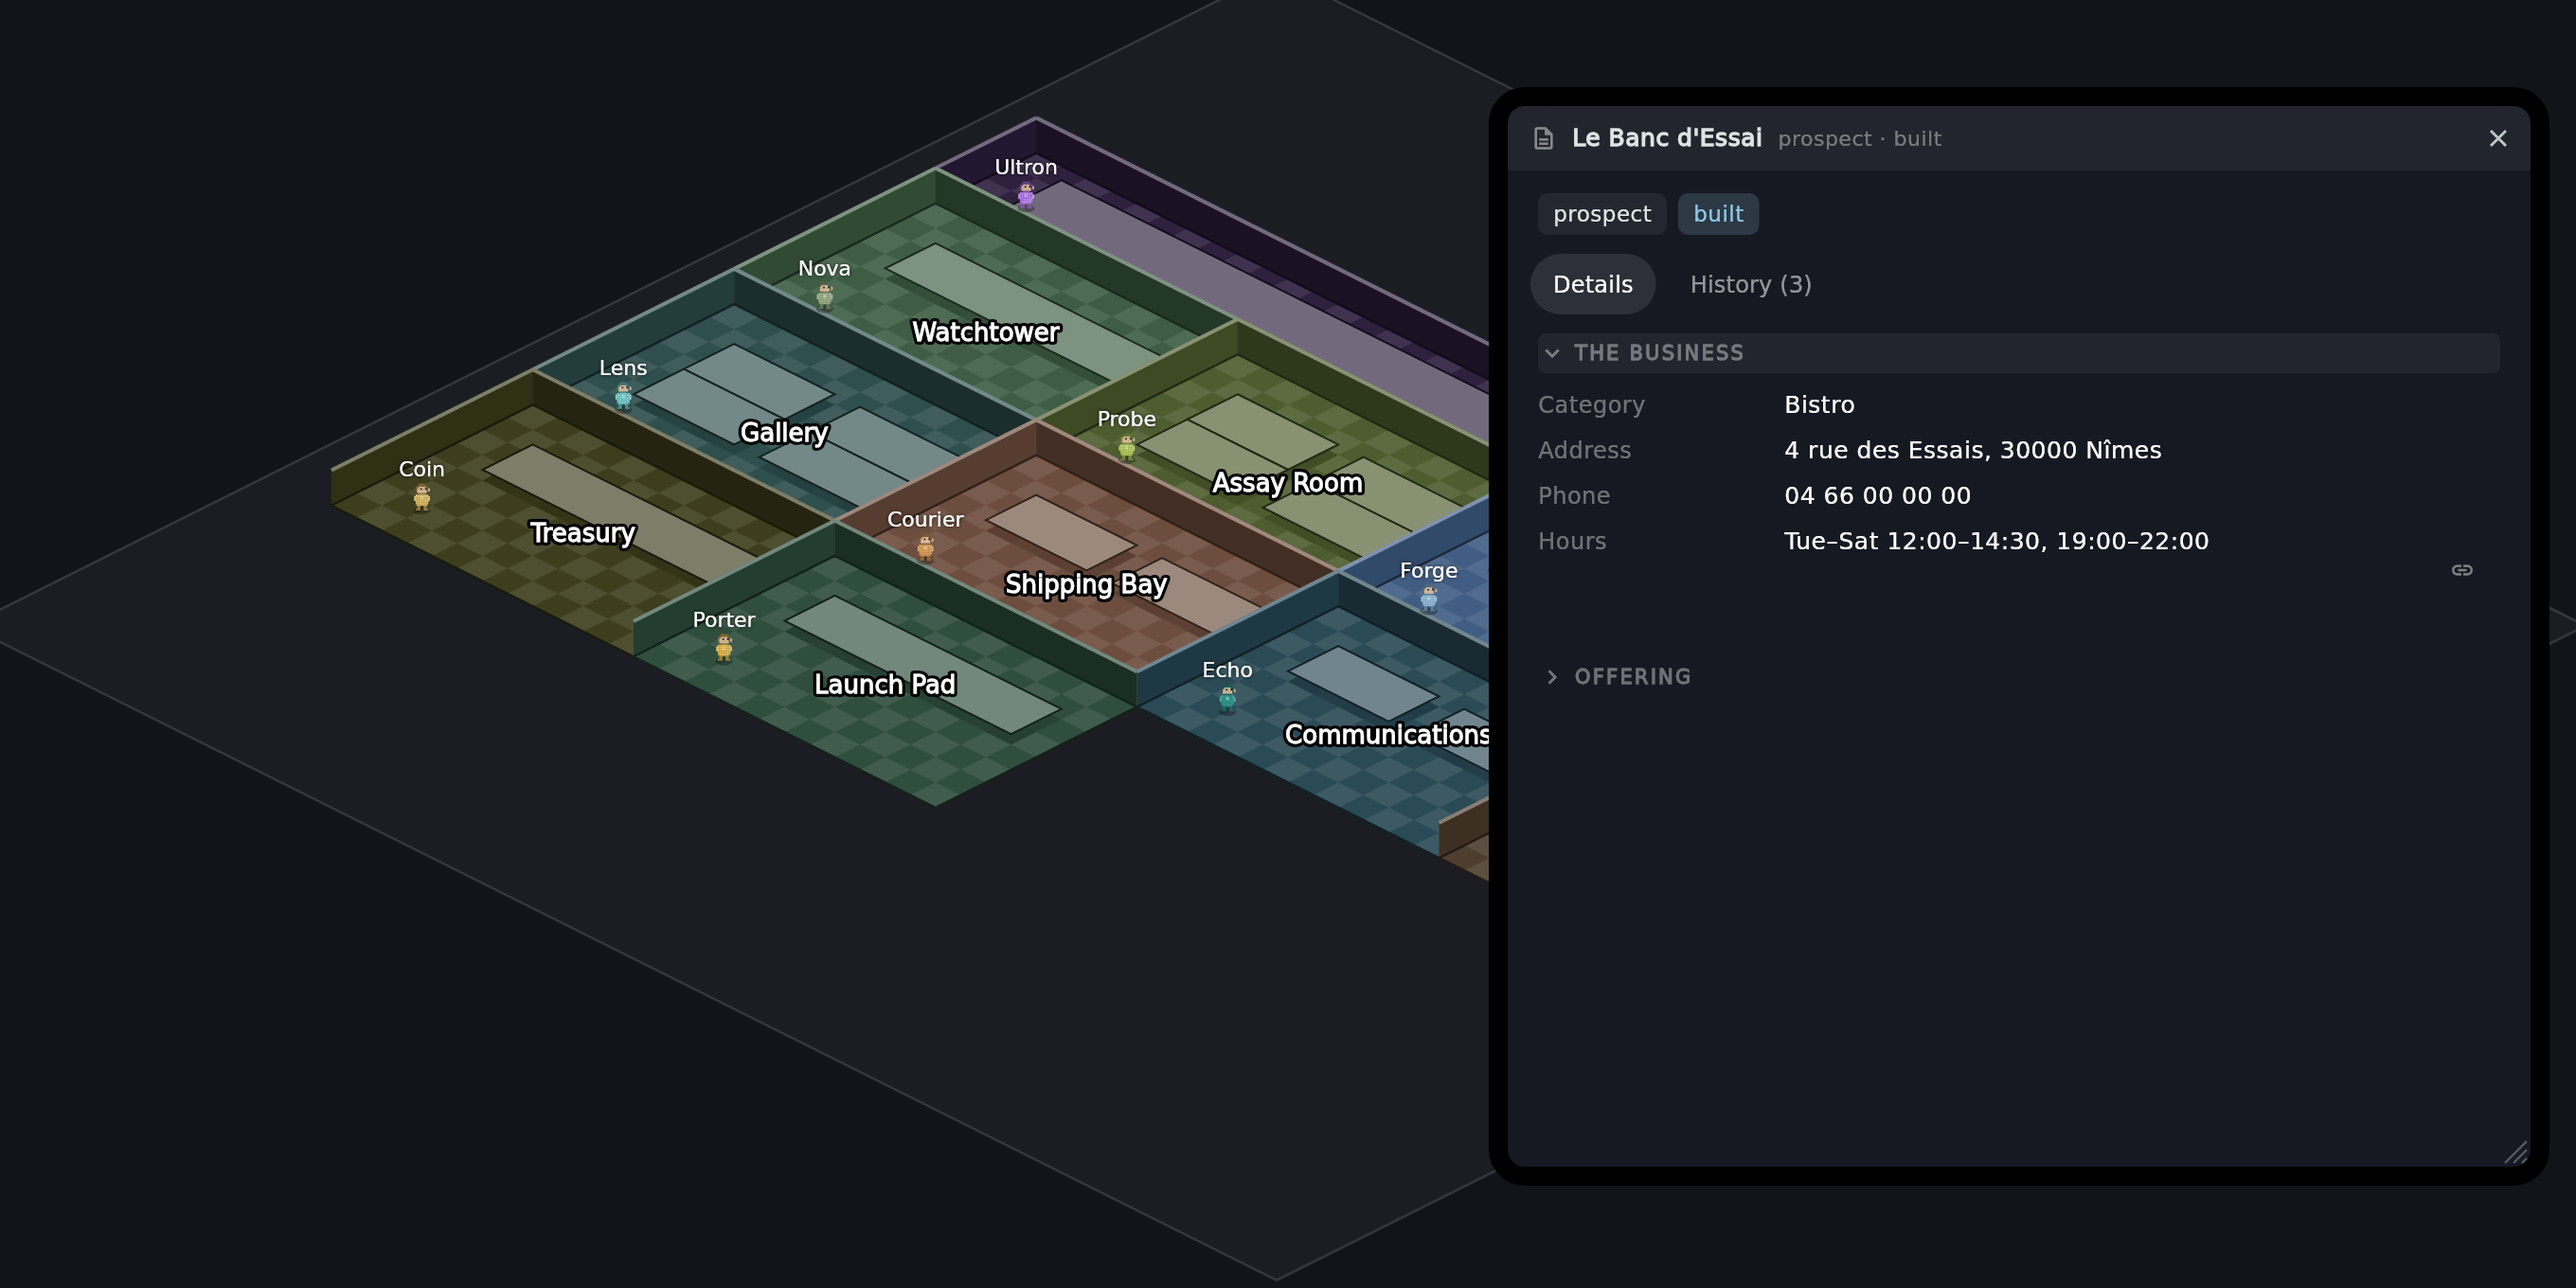
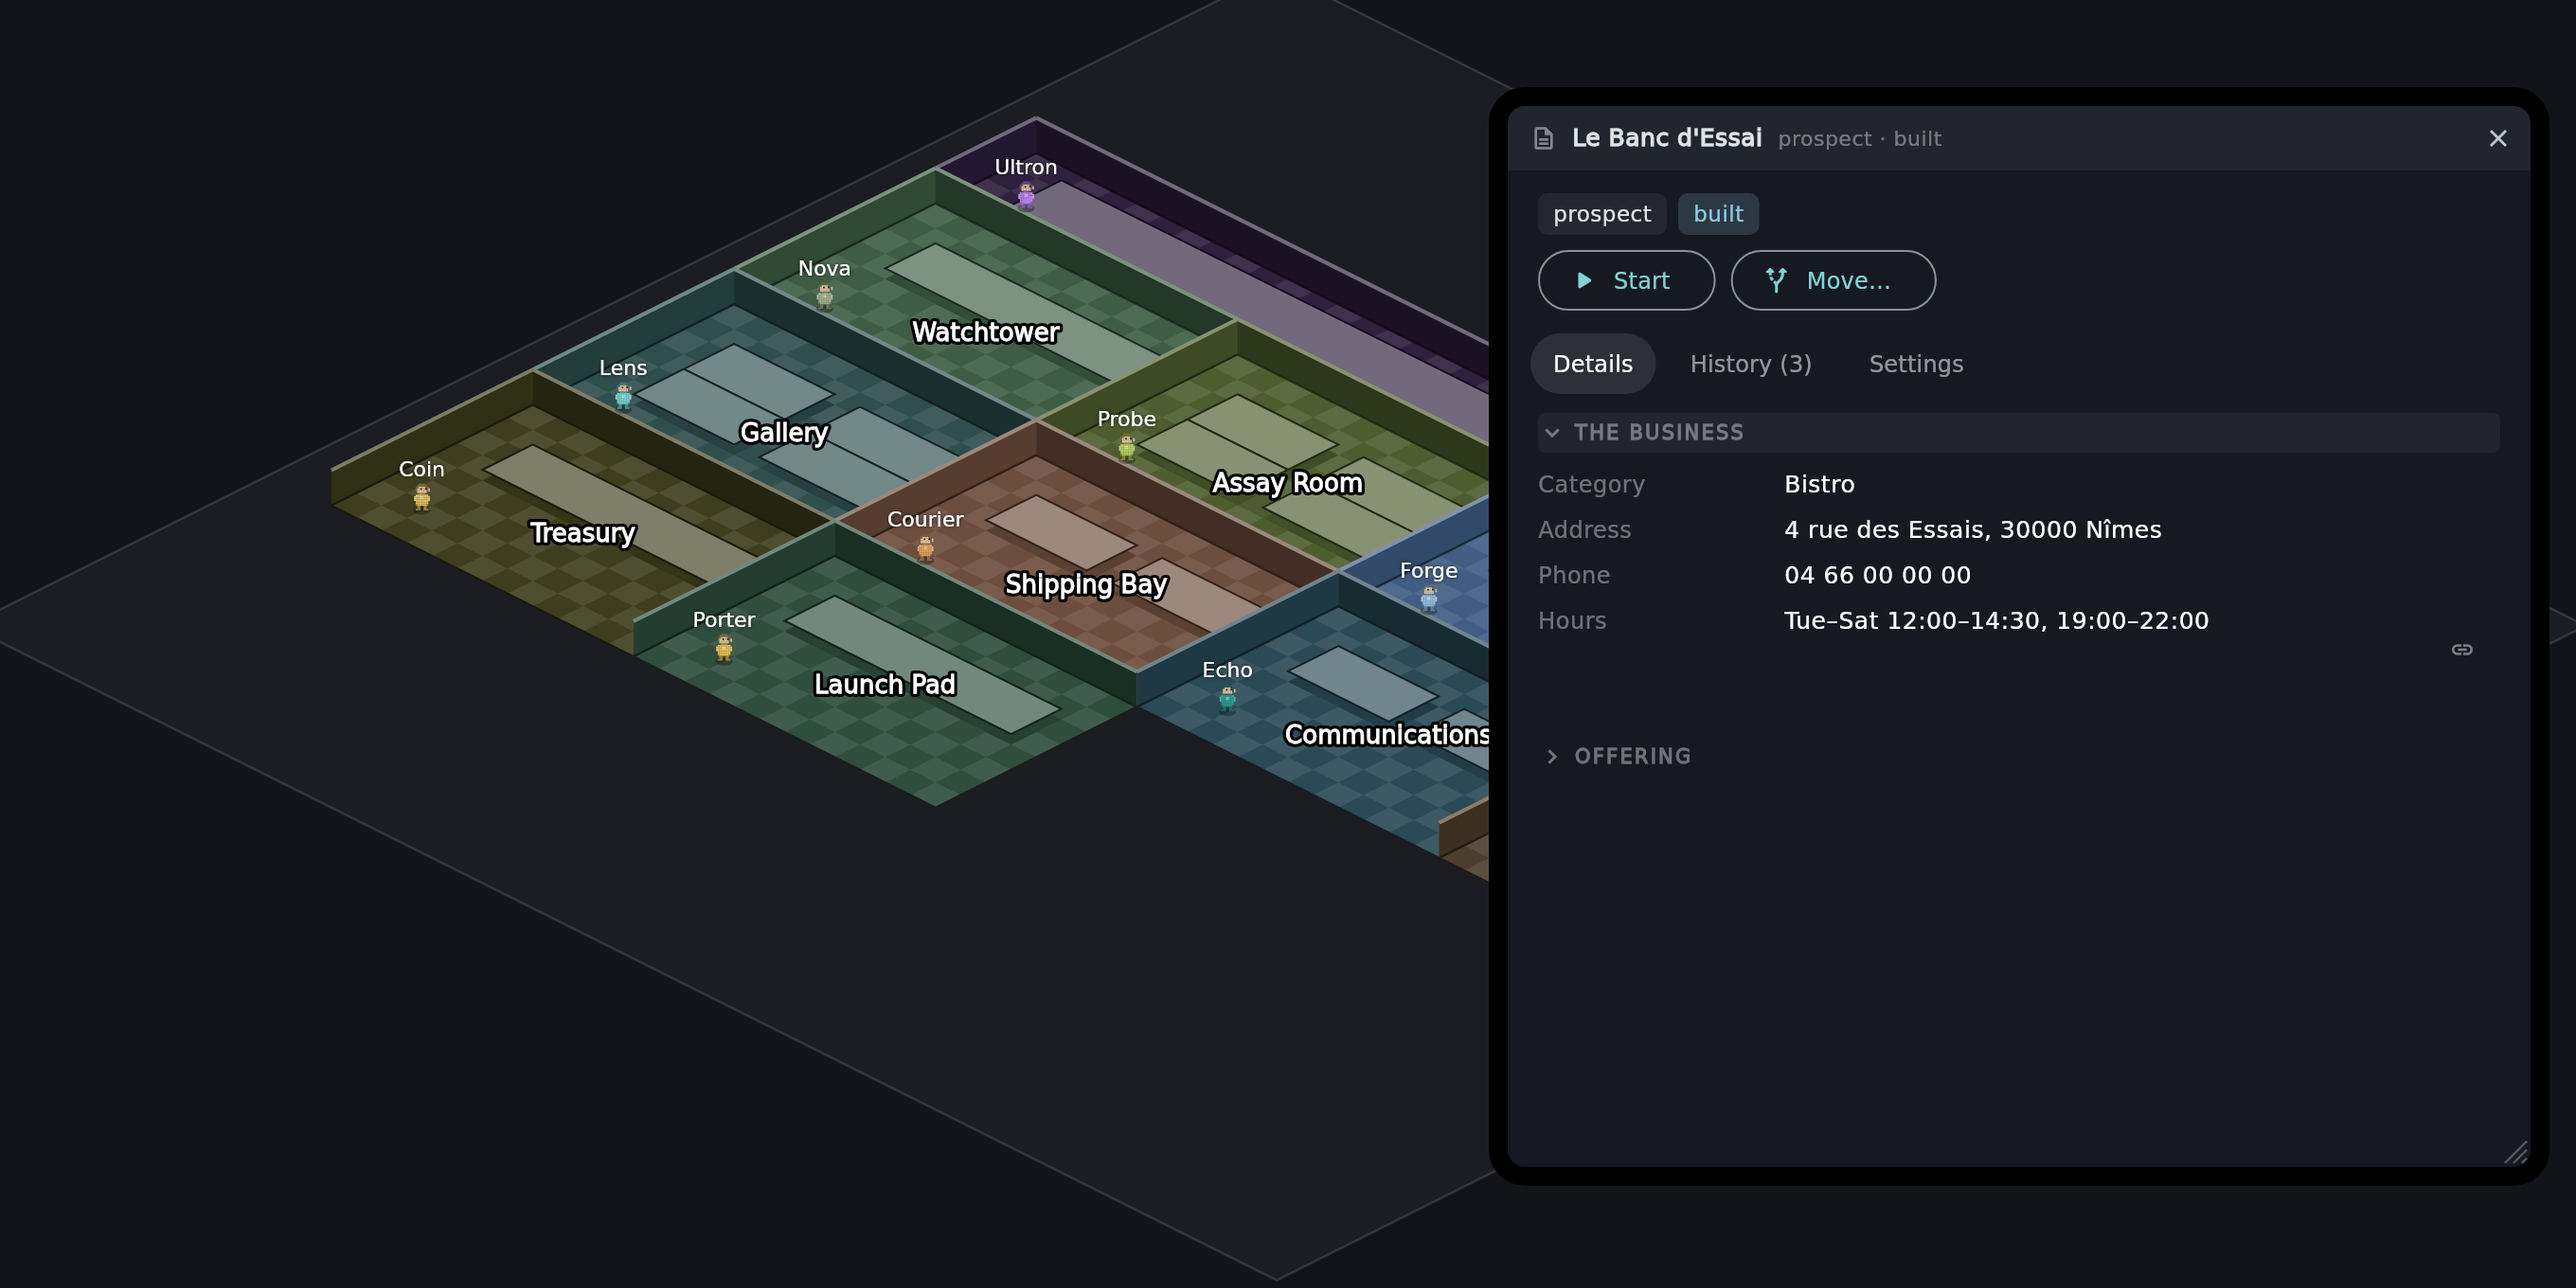
The gif replaces the two stills it was made from
`estate` and `web` were the middle and far zoom steps as still images,
and the gif travels through both on its way out. Keeping them meant three
pictures of the same movement, two of which are a frame of the third.

Removed from the README, and with them the two shot functions, their
entries in `screenshots.sh`, the `_box` helper only they used, and the
PNGs. An image nothing references and a shot nobody looks at both rot
quietly — `screenshots.sh` would have gone on regenerating two files the
README no longer had.

What the two captions said is worth keeping, so it moved into the one
under the gif: the labels go as you pull back, and the plots sit on rings
around a hub, ring `n` holding `6n`, so the world has room for hundreds
of castles and what you are looking at is two.

Both scripts re-run clean afterwards.

Changed region(s): [[0.5938, 0.1853, 0.8438, 0.4941], [0.625, 0.4941, 0.6562, 0.6176], [0.7188, 0.2779, 0.75, 0.3088]]

diff --git a/app/tool/screenshots.dart b/app/tool/screenshots.dart
@@ -304,8 +304,6 @@ void main() {
   // So `screenshots.sh` runs this file three times, naming one shot each, and
   // each run writes its file and exits. Compiling is cached after the first.
   testWidgets('zoomout', (t) async => _leave(await _zoomOut(t)));
-  testWidgets('web', (t) async => _leave(await _shotWeb(t)));
-  testWidgets('estate', (t) async => _leave(await _shotEstate(t)));
   testWidgets('world', (t) async => _leave(await _shotWorld(t)));
   testWidgets('record', (t) async => _leave(await _shotRecord(t)));
   testWidgets('castle', (t) async => _leave(await _shotCastle(t)));
@@ -392,79 +390,6 @@ Future<void> _zoomOut(WidgetTester t) async {
     // ignore: avoid_print
     print('wrote $frames frames to ${dir.path}');
     _written++;
-}
-
-/// The whole web, from far enough out that a castle is one block.
-///
-/// The last zoom step, and the one that says what the place IS: rings of empty
-/// plots around a hub, with the built ones named and counted. Two castles in a
-/// world with room for hundreds — which is the point of drawing the empty land
-/// at all.
-Future<void> _shotWeb(WidgetTester t) async {
-    final rooms = _rooms();
-    final castles = _castles(rooms);
-    final key = GlobalKey<MapViewState>();
-    await _shoot(
-      t,
-      'web',
-      MapView(
-        key: key,
-        rooms: rooms,
-        agents: _agents(rooms),
-        badges: const {},
-        castles: castles,
-        web: const Web(),
-        taken: _taken(castles),
-        onRoomTapped: (_) {},
-      ),
-      size: const Size(1920, 1360),
-      cropBottom: 390,
-      frameOn: key,
-      // A frame far wider than anything built, so fitting it puts the camera
-      // below `WorldPainter.farZoom` and the rooms give way to one block per
-      // castle. Framing on the castles themselves would stop at the estate
-      // view, which is the shot above this one.
-      castle: _box(castles.first, 2200),
-    );
-}
-
-/// Both castles at once, from far enough back that the rooms are a layout
-/// rather than a set of labels.
-///
-/// The step the other shots skip. `world` is one castle close enough to read,
-/// and the estate view is one block per castle — this is between them, and it
-/// is the distance the map is actually used from: you can see which castles
-/// exist, how each is laid out, and which rooms are lit, without any of it
-/// being legible. The empty plots around them are the point as much as the
-/// castles are: the world is a place with room in it.
-Future<void> _shotEstate(WidgetTester t) async {
-    final rooms = _rooms();
-    final castles = _castles(rooms);
-    final key = GlobalKey<MapViewState>();
-    await _shoot(
-      t,
-      'estate',
-      MapView(
-        key: key,
-        rooms: rooms,
-        agents: _agents(rooms, working: {
-          for (final r in rooms)
-            if (r.baseId == 'factory') r.id: 'building…'
-              else if (r.baseId == 'screening') r.id: 'reading…',
-        }),
-        badges: {rooms[6].id: 2, rooms[9].id: 1},
-        castles: castles,
-        web: const Web(),
-        taken: _taken(castles),
-        onRoomTapped: (_) {},
-      ),
-      size: const Size(1920, 1360),
-      cropBottom: 390,
-      frameOn: key,
-      // Framed on EVERY room rather than one castle's, so the box covers the
-      // whole estate and `flyToCastle` pulls back far enough to hold both.
-      castle: _framing(castles.first, rooms),
-    );
 }
 
 Future<void> _shotWorld(WidgetTester t) async {
@@ -645,20 +570,6 @@ const _recordView = <String, dynamic>{
 /// wall stands above it, its sprites stand on it and its name floats over the
 /// middle. Fitting the box exactly clipped the topmost room's worker off the
 /// top edge.
-/// A square frame of `span` tiles centred on the hub, for flying somewhere no
-/// castle is.
-Castle _box(Castle c, double span) => c.withRooms([
-      Room.fromJson({
-        'id': '_box',
-        'name': '',
-        'castle_id': c.id,
-        'position': {'x': -span / 2, 'y': -span / 2},
-        'size': {'w': span, 'h': span},
-        'color': '#000000',
-      }),
-    ]);
-
-
 Castle _framing(Castle c, List<Room> rooms) {
   const pad = 3.0;
   var minX = double.infinity, minY = double.infinity;

diff --git a/README.md b/README.md
@@ -20,25 +20,13 @@ Built on the [Claude Agent SDK](https://docs.claude.com/en/api/agent-sdk).
 way to a castle's layout, then to one named block per castle on rings of empty
 plots.](docs/img/zoomout.gif)
 
-The three steps, still: a room close enough to read, both castles as layouts,
-and the whole web.
+Three zoom steps, and the labels go as you pull back because at that distance
+they are grey fuzz over the thing you are looking at. The plots sit on rings
+around a hub — ring `n` holds `6n` — so the world has room for hundreds of
+castles, and what you are looking at is two.
 
 ![A castle's eleven rooms, each with the worker that staffs it. Two are
 working; two carry an approval badge.](docs/img/world.png)
-
-Pull back and the labels go, because at that distance they are grey fuzz over
-the thing you are looking at — but the layout stays, and so do the badges. Two
-castles here, on their plots, with the empty land around them.
-
-![Two castles seen from above, each a cluster of coloured rooms on its own
-plot, with empty plots around them.](docs/img/estate.png)
-
-Keep going and a castle becomes one block with its name and what is in it. The
-plots sit on rings around a hub — ring `n` holds `6n` — so the world has room
-for hundreds of these, and what you are looking at is two.
-
-![The whole web of plots, an ellipse of empty land, with two named castles at
-its centre.](docs/img/web.png)
 
 <table>
 <tr>
